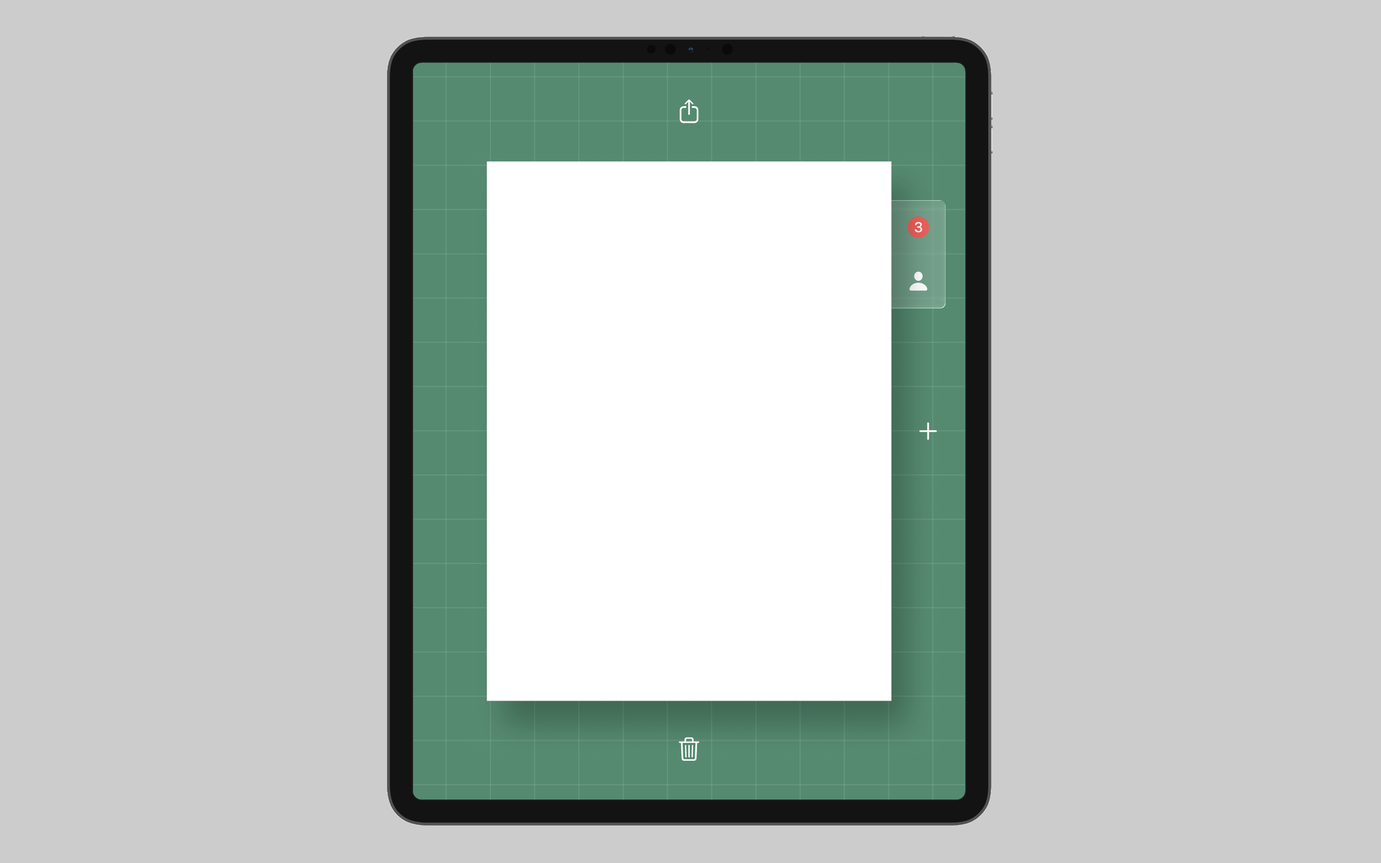
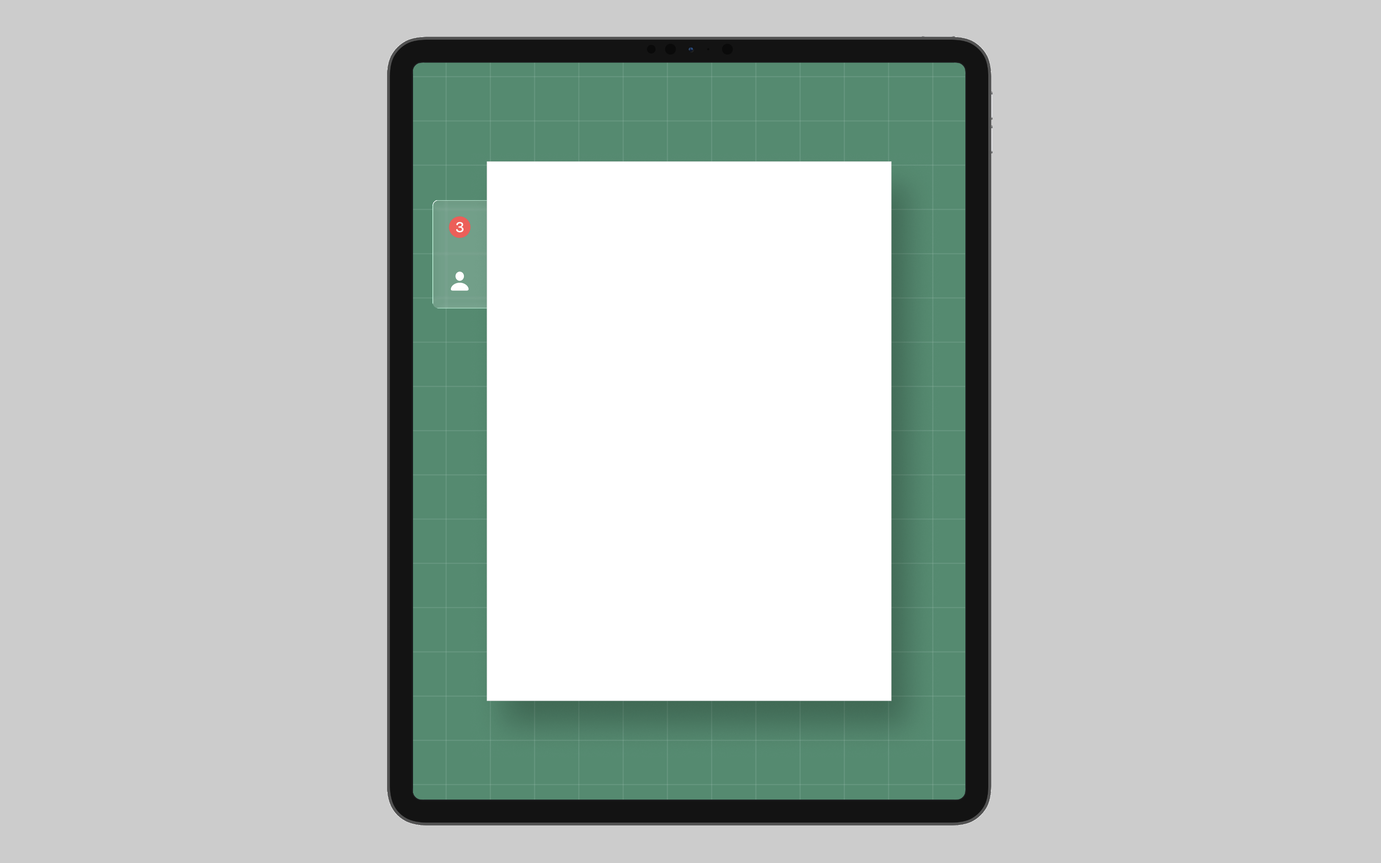
Replace Friends side tab images with left-side designs

Changed region(s): [[0.3125, 0.217, 0.375, 0.372], [0.625, 0.217, 0.6875, 0.372]]

diff --git a/projects/script.html b/projects/script.html
@@ -1,5 +1,5 @@
 <!doctype html>
 <html lang="en"><head><meta charset="utf-8"><meta name="viewport" content="width=device-width, initial-scale=1"><title>Script</title><link rel="stylesheet" href="project.css?v=publish-clean"><script src="project.js?v=manual-play" defer></script></head><body>
-<main><h1>Script</h1><div class="shot-content"><div class="prose"><p>Typing is quick, efficient, and always results in perfectly uniform text, but unlike in handwriting, there&#x27;s no trace of you in typed text. Ask two people to type the same words, and the end result would be the same. However, if they were to handwrite those words, you may be able to discern that one of them is left-handed, for example, or even get a sense of their state of mind. There&#x27;s something to the physicality of handwriting that typing strips away.</p><p>Now, I&#x27;m not saying that typed text doesn&#x27;t have its place. Books and road signs, for example, need to be legible, text on computer screens needs to be dynamic and scalable, but when was the last time you wrote something down before you could forget it? When&#x27;s the last time you wrote your grocery list on a loose piece of paper or sketched an idea? Do you remember what your handwriting looks like?</p><p>Handwriting is much more personal than typed text, and I think we could all use a little more of that in our predominantly digital lives, so I designed an app concept that explores how writing on a screen can preserve some of the character and intimacy of writing on paper.</p></div><div class="prose"><h2>The initial idea</h2></div><figure style="--media-ratio: 1.49966 / 1; --media-fit: contain"><img src="../assets/projects/script/08eb14da75a6ae41a38161225843afc0.jpg" alt="Script project image" loading="lazy"></figure><div class="prose"><p>The initial idea was simple, and it started with a question: could I build an experience around a single sheet of paper? I thought about launching the app, seeing a single page, tapping on it to make it fill the screen, and writing or sketching what was on my mind. Once I was done, I&#x27;d either share it or trash it. Fairly simple.</p><p>I have a green cutting mat on my desk, so I wanted to make it feel like my own workspace.</p></div><section class="carousel" aria-label="Script media gallery"><div class="carousel-track" tabindex="0"><div class="carousel-slide"><figure style="--media-ratio: 1.65 / 1; --media-fit: cover"><video controls muted playsinline loop preload="auto" src="../assets/projects/script/f81e15d87a1e519ae8093e8f080be260.mov" aria-label="Script prototype"></video></figure></div><div class="carousel-slide"><figure style="--media-ratio: 1.65 / 1; --media-fit: cover"><img src="../assets/projects/script/a4db6e477c6803ed3606db4f1da271db.png" alt="Script project image" loading="lazy"></figure></div><div class="carousel-slide"><figure style="--media-ratio: 1.65 / 1; --media-fit: cover"><img src="../assets/projects/script/f40f1ed4996ea257ce0a5462481cbbed.png" alt="Script project image" loading="lazy"></figure></div><div class="carousel-slide"><figure style="--media-ratio: 1.65 / 1; --media-fit: cover"><img src="../assets/projects/script/63a171d18a5634daa985f7eab6f05c80.png" alt="Script project image" loading="lazy"></figure></div><div class="carousel-slide"><figure style="--media-ratio: 1.65 / 1; --media-fit: cover"><img src="../assets/projects/script/71b97e86bf1650294d41c2d502b4a3e1.png" alt="Script project image" loading="lazy"></figure></div></div><div class="carousel-controls"><button type="button" data-step="-1" aria-label="Previous slide">←</button><div class="carousel-dots"><button type="button" aria-label="Show slide 1" aria-pressed="true" data-slide="0"></button><button type="button" aria-label="Show slide 2" aria-pressed="false" data-slide="1"></button><button type="button" aria-label="Show slide 3" aria-pressed="false" data-slide="2"></button><button type="button" aria-label="Show slide 4" aria-pressed="false" data-slide="3"></button><button type="button" aria-label="Show slide 5" aria-pressed="false" data-slide="4"></button></div><button type="button" data-step="1" aria-label="Next slide">→</button></div></section><div class="prose"><p>Here&#x27;s a quick prototype of my initial idea. Launch, tap, write, share.</p><p>This is <strong>not</strong> an infinite canvas. I wanted to incorporate subtle ways to blend some of the constraints of physical pen and paper with the benefits of digital, so, for example, once you run out of space on a sheet, you&#x27;d add a new one and continue. </p><p>The share, delete, and add sheet buttons won&#x27;t appear until after you&#x27;ve written something.</p></div><div class="prose"><h2>Adding a sheet</h2></div><section class="carousel" aria-label="Script media gallery"><div class="carousel-track" tabindex="0"><div class="carousel-slide"><figure style="--media-ratio: 1.65 / 1; --media-fit: cover"><video controls muted playsinline loop preload="auto" src="../assets/projects/script/eaad12425aa3ba2beac584cb3de8e143.mov" aria-label="Script prototype"></video></figure></div><div class="carousel-slide"><figure style="--media-ratio: 1.65 / 1; --media-fit: cover"><video controls muted playsinline loop preload="auto" src="../assets/projects/script/1bc6be77d3419aa93123547b207820f9.mov" aria-label="Script prototype"></video></figure></div></div><div class="carousel-controls"><button type="button" data-step="-1" aria-label="Previous slide">←</button><div class="carousel-dots"><button type="button" aria-label="Show slide 1" aria-pressed="true" data-slide="0"></button><button type="button" aria-label="Show slide 2" aria-pressed="false" data-slide="1"></button></div><button type="button" data-step="1" aria-label="Next slide">→</button></div></section><div class="prose"><p>I started experimenting with different ways to add a new sheet. </p><p>The first one simply creates a stack, which is visually appealing, but I&#x27;m not sure how scalable it is. It could become too cluttered if too many sheets are added. </p><p>The second one lays the sheets out in a carousel, which would allow you to quickly access the previous sheets before sharing. It also incorporates the stack, so I&#x27;m going with this one.</p><p>I want this to feel light and intuitive.</p></div><div class="prose"><h2>Digital Touch</h2></div><figure style="--media-ratio: 1.77296 / 1; --media-fit: contain"><img src="../assets/projects/script/e593c81254560353e2ec671e32b05267.jpeg" alt="Script project image" loading="lazy"></figure><div class="prose"><p>When the Apple Watch launched over a decade ago, one of the highlight features was Digital Touch. Pressing the side button would bring up your contacts with quick access to communicate with them via call, text, or <em>touch</em>. With Digital Touch, you could get someone’s attention with a gentle tap, send them a quick sketch, or even share your own heartbeat.</p><p>I think about Digital Touch more than anybody on Earth, probably. Though the watch itself was like wearing a computer on your wrist, this feature made a piece of technology feel human. It was a somewhat tangible, ephemeral way to communicate in the digital realm, and I thought it was wonderful. What stayed with me was the feeling of someone being there on the other side of the screen. I wanted to explore how Script could make handwriting feel like a shared moment. </p></div><div class="prose"><h2>Friends</h2></div><figure style="--media-ratio: 1.6 / 1; --media-fit: contain"><img src="../assets/projects/script/friends-page-badge.png" alt="Friends notification badge at the upper right corner of the page" loading="lazy"></figure><div class="prose"><p>This was the first mockup I made when I started working on the Friends experience. I enjoyed the simplicity of just seeing the familiar notification badge when you had a message from a friend, but after I showed it to someone, they said it might suggest that the notification has something to do with that blank sheet, so I went in another direction.</p></div><section class="carousel" aria-label="Friends notification placement gallery"><div class="carousel-track" tabindex="0"><div class="carousel-slide"><figure style="--media-ratio: 1.6 / 1; --media-fit: contain"><img src="../assets/projects/script/friends-left-button.png" alt="Friends button on the left side of the workspace" loading="lazy"></figure></div><div class="carousel-slide"><figure style="--media-ratio: 1.6 / 1; --media-fit: contain"><img src="../assets/projects/script/friends-edge-controls.png" alt="Friends notification badge with controls around the page" loading="lazy"></figure></div><div class="carousel-slide"><figure style="--media-ratio: 1.6 / 1; --media-fit: contain"><img src="../assets/projects/script/friends-second-sheet.png" alt="A second sheet overlapping the Friends notification badge on the left" loading="lazy"></figure></div></div><div class="carousel-controls"><button type="button" data-step="-1" aria-label="Previous slide">←</button><div class="carousel-dots"><button type="button" data-slide="0" aria-label="Show slide 1" aria-pressed="true"></button><button type="button" data-slide="1" aria-label="Show slide 2" aria-pressed="false"></button><button type="button" data-slide="2" aria-label="Show slide 3" aria-pressed="false"></button></div><button type="button" data-step="1" aria-label="Next slide">→</button></div></section><div class="prose"><p>I thought of where I could put a Friends button, which would take you to the Friends experience, and having the notification badge take it&#x27;s place when you have a message waiting for you. I considered the buttons that show up after you write on a blank sheet and placed the Friends button on the left side, where no button currently resides.</p><p>The idea here is that the Friends experience lives on the left side of the &quot;workspace&quot;.</p><p>However, after building a prototype, the issue that arose was that when you add a second sheet, the first would move to the left side and overlap with the Friends button/notification badge, so this turned out to not be the right choice either.</p></div><figure style="--media-ratio: 1.6 / 1; --media-fit: contain"><img src="../assets/projects/script/friends-toolbar.png" alt="Friends notification badge in the side toolbar" loading="lazy"></figure><div class="prose"><p>After the first two ideas, I thought about moving all of the buttons onto a platter on the right side of the sheet, but then I remembered that putting the share button above the sheet and the trash button below it was intentional.</p><p>When you tap on the share button, the sheet shifts up, and when you tap to delete the sheet, it gets discarded downwards and off of the screen. I even considered adding a paper shredder animation like the old iOS Passbook app.</p><p>I want to preserve that mental model by keeping the buttons where the sheet goes.</p></div><section class="carousel" aria-label="Friends side tab gallery"><div class="carousel-track" tabindex="0"><div class="carousel-slide"><figure style="--media-ratio: 1.6 / 1; --media-fit: contain"><img src="../assets/projects/script/friends-side-tab-empty.png" alt="Friends side tab tucked behind the blank sheet" loading="lazy"></figure></div><div class="carousel-slide"><figure style="--media-ratio: 1.6 / 1; --media-fit: contain"><img src="../assets/projects/script/friends-side-tab.png" alt="Friends side tab with a notification badge and person icon" loading="lazy"></figure></div></div><div class="carousel-controls"><button type="button" data-step="-1" aria-label="Previous slide">←</button><div class="carousel-dots"><button type="button" data-slide="0" aria-label="Show slide 1" aria-pressed="true"></button><button type="button" data-slide="1" aria-label="Show slide 2" aria-pressed="false"></button></div><button type="button" data-step="1" aria-label="Next slide">→</button></div></section><div class="prose"><p>I wanted Friends to feel like part of the workspace, so I explored a tab tucked behind the sheet. It gives the notification badge and Friends button a dedicated place while keeping the share and trash buttons in their original positions. I also liked how it resembled a physical divider tab, bringing another skeuomorphic detail into the experience.</p></div><div class="prose"><h2>Live Page</h2></div><figure style="--media-ratio: 1.65 / 1; --media-fit: contain"><video controls muted playsinline loop preload="auto" src="../assets/projects/script/0f0f9edd8050087184e140e0c81c1d42.mov" aria-label="Script prototype"></video></figure><div class="prose"><p>Taking inspiration from Digital Touch, two people can share the same page and write to each other live and in the moment with a feature that I’m calling Live Page.</p><p>Messages will disappear, but not fully — like how erasing pencil marks leaves a faint trace on a sheet of paper. After the first person writes, their message will gradually become less opaque when the other person starts writing, and so on. </p></div><figure style="--media-ratio: 1.75317 / 1; --media-fit: contain"><img src="../assets/projects/script/22b7b6b79ff7710cf58614fc15be0a9b.jpeg" alt="Script project image" loading="lazy"></figure><div class="prose"><p>I’d also like to explore smudging the ink with a finger and showing a faint impression of the other person’s resting fingertips on the page. These small signs of touch could make the exchange feel more physical, as though someone were writing across the table from you.</p><p>The photo above is from Apple&#x27;s iPad Pro 9.7&quot; introduction video. </p></div><div class="prose"><h2>Writing in the AI era</h2></div><figure style="--media-ratio: 1.76904 / 1; --media-fit: contain"><img src="../assets/projects/script/613fa54b3afc197435f1e4a3bcd0e59d.jpg" alt="Script project image" loading="lazy"></figure><div class="prose"><p>In my favorite movie, <em>Her</em>, the main character&#x27;s job involves writing letters for people on behalf of other people. He dictates his thoughts and they get transcribed by his computer and turned into bespoke handwritten letters, but the handwriting is, or appears to be, computer-generated.</p><p>I&#x27;ve been thinking about the movie more often lately because it&#x27;s set in a future that feels a lot nearer now than it does further away.</p><p>In 2024, Apple introduced Smart Script on iPadOS. The feature &quot;allows users to write quickly without sacrificing legibility by smoothing and straightening handwritten text in real time.&quot;</p><p>If you write with Smart Script, is it still your handwriting? The uneven strokes and small imperfections that tools like these try to clean up are what makes our handwriting recognizable. With Script, I&#x27;m trying to preserve that character.</p></div><figure style="--media-ratio: 1.33333 / 1; --media-fit: contain"><img src="../assets/projects/script/ed7aa84762246646b497692642d313bf.jpg" alt="Script project image" loading="lazy"></figure><div class="prose"><p>Since turning 30 and becoming a father, I&#x27;ve been thinking more about what we leave behind. Software is transient in nature, but a little handwritten note can be something someone holds onto—in their wallet, on their refrigerator, in a shoe box, or even in their junk drawer.</p><p>Your handwriting is unique. Somebody can see something you wrote on a little piece of paper and know it was you who wrote it. I can&#x27;t help but think there&#x27;s something romantic about that. It&#x27;s like a work of art. It&#x27;s proof that you were here.</p></div></div></main>
+<main><h1>Script</h1><div class="shot-content"><div class="prose"><p>Typing is quick, efficient, and always results in perfectly uniform text, but unlike in handwriting, there&#x27;s no trace of you in typed text. Ask two people to type the same words, and the end result would be the same. However, if they were to handwrite those words, you may be able to discern that one of them is left-handed, for example, or even get a sense of their state of mind. There&#x27;s something to the physicality of handwriting that typing strips away.</p><p>Now, I&#x27;m not saying that typed text doesn&#x27;t have its place. Books and road signs, for example, need to be legible, text on computer screens needs to be dynamic and scalable, but when was the last time you wrote something down before you could forget it? When&#x27;s the last time you wrote your grocery list on a loose piece of paper or sketched an idea? Do you remember what your handwriting looks like?</p><p>Handwriting is much more personal than typed text, and I think we could all use a little more of that in our predominantly digital lives, so I designed an app concept that explores how writing on a screen can preserve some of the character and intimacy of writing on paper.</p></div><div class="prose"><h2>The initial idea</h2></div><figure style="--media-ratio: 1.49966 / 1; --media-fit: contain"><img src="../assets/projects/script/08eb14da75a6ae41a38161225843afc0.jpg" alt="Script project image" loading="lazy"></figure><div class="prose"><p>The initial idea was simple, and it started with a question: could I build an experience around a single sheet of paper? I thought about launching the app, seeing a single page, tapping on it to make it fill the screen, and writing or sketching what was on my mind. Once I was done, I&#x27;d either share it or trash it. Fairly simple.</p><p>I have a green cutting mat on my desk, so I wanted to make it feel like my own workspace.</p></div><section class="carousel" aria-label="Script media gallery"><div class="carousel-track" tabindex="0"><div class="carousel-slide"><figure style="--media-ratio: 1.65 / 1; --media-fit: cover"><video controls muted playsinline loop preload="auto" src="../assets/projects/script/f81e15d87a1e519ae8093e8f080be260.mov" aria-label="Script prototype"></video></figure></div><div class="carousel-slide"><figure style="--media-ratio: 1.65 / 1; --media-fit: cover"><img src="../assets/projects/script/a4db6e477c6803ed3606db4f1da271db.png" alt="Script project image" loading="lazy"></figure></div><div class="carousel-slide"><figure style="--media-ratio: 1.65 / 1; --media-fit: cover"><img src="../assets/projects/script/f40f1ed4996ea257ce0a5462481cbbed.png" alt="Script project image" loading="lazy"></figure></div><div class="carousel-slide"><figure style="--media-ratio: 1.65 / 1; --media-fit: cover"><img src="../assets/projects/script/63a171d18a5634daa985f7eab6f05c80.png" alt="Script project image" loading="lazy"></figure></div><div class="carousel-slide"><figure style="--media-ratio: 1.65 / 1; --media-fit: cover"><img src="../assets/projects/script/71b97e86bf1650294d41c2d502b4a3e1.png" alt="Script project image" loading="lazy"></figure></div></div><div class="carousel-controls"><button type="button" data-step="-1" aria-label="Previous slide">←</button><div class="carousel-dots"><button type="button" aria-label="Show slide 1" aria-pressed="true" data-slide="0"></button><button type="button" aria-label="Show slide 2" aria-pressed="false" data-slide="1"></button><button type="button" aria-label="Show slide 3" aria-pressed="false" data-slide="2"></button><button type="button" aria-label="Show slide 4" aria-pressed="false" data-slide="3"></button><button type="button" aria-label="Show slide 5" aria-pressed="false" data-slide="4"></button></div><button type="button" data-step="1" aria-label="Next slide">→</button></div></section><div class="prose"><p>Here&#x27;s a quick prototype of my initial idea. Launch, tap, write, share.</p><p>This is <strong>not</strong> an infinite canvas. I wanted to incorporate subtle ways to blend some of the constraints of physical pen and paper with the benefits of digital, so, for example, once you run out of space on a sheet, you&#x27;d add a new one and continue. </p><p>The share, delete, and add sheet buttons won&#x27;t appear until after you&#x27;ve written something.</p></div><div class="prose"><h2>Adding a sheet</h2></div><section class="carousel" aria-label="Script media gallery"><div class="carousel-track" tabindex="0"><div class="carousel-slide"><figure style="--media-ratio: 1.65 / 1; --media-fit: cover"><video controls muted playsinline loop preload="auto" src="../assets/projects/script/eaad12425aa3ba2beac584cb3de8e143.mov" aria-label="Script prototype"></video></figure></div><div class="carousel-slide"><figure style="--media-ratio: 1.65 / 1; --media-fit: cover"><video controls muted playsinline loop preload="auto" src="../assets/projects/script/1bc6be77d3419aa93123547b207820f9.mov" aria-label="Script prototype"></video></figure></div></div><div class="carousel-controls"><button type="button" data-step="-1" aria-label="Previous slide">←</button><div class="carousel-dots"><button type="button" aria-label="Show slide 1" aria-pressed="true" data-slide="0"></button><button type="button" aria-label="Show slide 2" aria-pressed="false" data-slide="1"></button></div><button type="button" data-step="1" aria-label="Next slide">→</button></div></section><div class="prose"><p>I started experimenting with different ways to add a new sheet. </p><p>The first one simply creates a stack, which is visually appealing, but I&#x27;m not sure how scalable it is. It could become too cluttered if too many sheets are added. </p><p>The second one lays the sheets out in a carousel, which would allow you to quickly access the previous sheets before sharing. It also incorporates the stack, so I&#x27;m going with this one.</p><p>I want this to feel light and intuitive.</p></div><div class="prose"><h2>Digital Touch</h2></div><figure style="--media-ratio: 1.77296 / 1; --media-fit: contain"><img src="../assets/projects/script/e593c81254560353e2ec671e32b05267.jpeg" alt="Script project image" loading="lazy"></figure><div class="prose"><p>When the Apple Watch launched over a decade ago, one of the highlight features was Digital Touch. Pressing the side button would bring up your contacts with quick access to communicate with them via call, text, or <em>touch</em>. With Digital Touch, you could get someone’s attention with a gentle tap, send them a quick sketch, or even share your own heartbeat.</p><p>I think about Digital Touch more than anybody on Earth, probably. Though the watch itself was like wearing a computer on your wrist, this feature made a piece of technology feel human. It was a somewhat tangible, ephemeral way to communicate in the digital realm, and I thought it was wonderful. What stayed with me was the feeling of someone being there on the other side of the screen. I wanted to explore how Script could make handwriting feel like a shared moment. </p></div><div class="prose"><h2>Friends</h2></div><figure style="--media-ratio: 1.6 / 1; --media-fit: contain"><img src="../assets/projects/script/friends-page-badge.png" alt="Friends notification badge at the upper right corner of the page" loading="lazy"></figure><div class="prose"><p>This was the first mockup I made when I started working on the Friends experience. I enjoyed the simplicity of just seeing the familiar notification badge when you had a message from a friend, but after I showed it to someone, they said it might suggest that the notification has something to do with that blank sheet, so I went in another direction.</p></div><section class="carousel" aria-label="Friends notification placement gallery"><div class="carousel-track" tabindex="0"><div class="carousel-slide"><figure style="--media-ratio: 1.6 / 1; --media-fit: contain"><img src="../assets/projects/script/friends-left-button.png" alt="Friends button on the left side of the workspace" loading="lazy"></figure></div><div class="carousel-slide"><figure style="--media-ratio: 1.6 / 1; --media-fit: contain"><img src="../assets/projects/script/friends-edge-controls.png" alt="Friends notification badge with controls around the page" loading="lazy"></figure></div><div class="carousel-slide"><figure style="--media-ratio: 1.6 / 1; --media-fit: contain"><img src="../assets/projects/script/friends-second-sheet.png" alt="A second sheet overlapping the Friends notification badge on the left" loading="lazy"></figure></div></div><div class="carousel-controls"><button type="button" data-step="-1" aria-label="Previous slide">←</button><div class="carousel-dots"><button type="button" data-slide="0" aria-label="Show slide 1" aria-pressed="true"></button><button type="button" data-slide="1" aria-label="Show slide 2" aria-pressed="false"></button><button type="button" data-slide="2" aria-label="Show slide 3" aria-pressed="false"></button></div><button type="button" data-step="1" aria-label="Next slide">→</button></div></section><div class="prose"><p>I thought of where I could put a Friends button, which would take you to the Friends experience, and having the notification badge take it&#x27;s place when you have a message waiting for you. I considered the buttons that show up after you write on a blank sheet and placed the Friends button on the left side, where no button currently resides.</p><p>The idea here is that the Friends experience lives on the left side of the &quot;workspace&quot;.</p><p>However, after building a prototype, the issue that arose was that when you add a second sheet, the first would move to the left side and overlap with the Friends button/notification badge, so this turned out to not be the right choice either.</p></div><figure style="--media-ratio: 1.6 / 1; --media-fit: contain"><img src="../assets/projects/script/friends-toolbar.png" alt="Friends notification badge in the side toolbar" loading="lazy"></figure><div class="prose"><p>After the first two ideas, I thought about moving all of the buttons onto a platter on the right side of the sheet, but then I remembered that putting the share button above the sheet and the trash button below it was intentional.</p><p>When you tap on the share button, the sheet shifts up, and when you tap to delete the sheet, it gets discarded downwards and off of the screen. I even considered adding a paper shredder animation like the old iOS Passbook app.</p><p>I want to preserve that mental model by keeping the buttons where the sheet goes.</p></div><section class="carousel" aria-label="Friends side tab gallery"><div class="carousel-track" tabindex="0"><div class="carousel-slide"><figure style="--media-ratio: 1.6 / 1; --media-fit: contain"><img src="../assets/projects/script/friends-side-tab-empty.png?v=left-tab-2" alt="Friends side tab tucked behind the blank sheet" loading="lazy"></figure></div><div class="carousel-slide"><figure style="--media-ratio: 1.6 / 1; --media-fit: contain"><img src="../assets/projects/script/friends-side-tab.png?v=left-tab-2" alt="Friends side tab with a notification badge and person icon" loading="lazy"></figure></div></div><div class="carousel-controls"><button type="button" data-step="-1" aria-label="Previous slide">←</button><div class="carousel-dots"><button type="button" data-slide="0" aria-label="Show slide 1" aria-pressed="true"></button><button type="button" data-slide="1" aria-label="Show slide 2" aria-pressed="false"></button></div><button type="button" data-step="1" aria-label="Next slide">→</button></div></section><div class="prose"><p>I wanted Friends to feel like part of the workspace, so I explored a tab tucked behind the sheet. It gives the notification badge and Friends button a dedicated place while keeping the share and trash buttons in their original positions. I also liked how it resembled a physical divider tab, bringing another skeuomorphic detail into the experience.</p></div><div class="prose"><h2>Live Page</h2></div><figure style="--media-ratio: 1.65 / 1; --media-fit: contain"><video controls muted playsinline loop preload="auto" src="../assets/projects/script/0f0f9edd8050087184e140e0c81c1d42.mov" aria-label="Script prototype"></video></figure><div class="prose"><p>Taking inspiration from Digital Touch, two people can share the same page and write to each other live and in the moment with a feature that I’m calling Live Page.</p><p>Messages will disappear, but not fully — like how erasing pencil marks leaves a faint trace on a sheet of paper. After the first person writes, their message will gradually become less opaque when the other person starts writing, and so on. </p></div><figure style="--media-ratio: 1.75317 / 1; --media-fit: contain"><img src="../assets/projects/script/22b7b6b79ff7710cf58614fc15be0a9b.jpeg" alt="Script project image" loading="lazy"></figure><div class="prose"><p>I’d also like to explore smudging the ink with a finger and showing a faint impression of the other person’s resting fingertips on the page. These small signs of touch could make the exchange feel more physical, as though someone were writing across the table from you.</p><p>The photo above is from Apple&#x27;s iPad Pro 9.7&quot; introduction video. </p></div><div class="prose"><h2>Writing in the AI era</h2></div><figure style="--media-ratio: 1.76904 / 1; --media-fit: contain"><img src="../assets/projects/script/613fa54b3afc197435f1e4a3bcd0e59d.jpg" alt="Script project image" loading="lazy"></figure><div class="prose"><p>In my favorite movie, <em>Her</em>, the main character&#x27;s job involves writing letters for people on behalf of other people. He dictates his thoughts and they get transcribed by his computer and turned into bespoke handwritten letters, but the handwriting is, or appears to be, computer-generated.</p><p>I&#x27;ve been thinking about the movie more often lately because it&#x27;s set in a future that feels a lot nearer now than it does further away.</p><p>In 2024, Apple introduced Smart Script on iPadOS. The feature &quot;allows users to write quickly without sacrificing legibility by smoothing and straightening handwritten text in real time.&quot;</p><p>If you write with Smart Script, is it still your handwriting? The uneven strokes and small imperfections that tools like these try to clean up are what makes our handwriting recognizable. With Script, I&#x27;m trying to preserve that character.</p></div><figure style="--media-ratio: 1.33333 / 1; --media-fit: contain"><img src="../assets/projects/script/ed7aa84762246646b497692642d313bf.jpg" alt="Script project image" loading="lazy"></figure><div class="prose"><p>Since turning 30 and becoming a father, I&#x27;ve been thinking more about what we leave behind. Software is transient in nature, but a little handwritten note can be something someone holds onto—in their wallet, on their refrigerator, in a shoe box, or even in their junk drawer.</p><p>Your handwriting is unique. Somebody can see something you wrote on a little piece of paper and know it was you who wrote it. I can&#x27;t help but think there&#x27;s something romantic about that. It&#x27;s like a work of art. It&#x27;s proof that you were here.</p></div></div></main>
 <footer></footer>
 </body></html>
